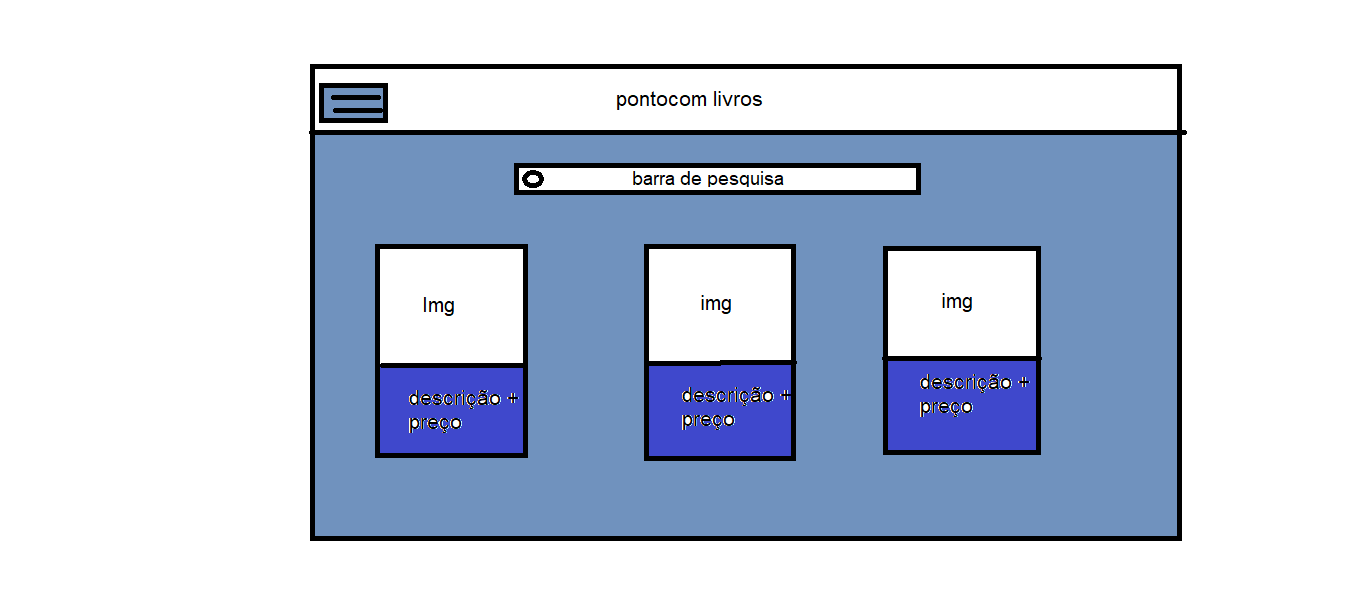
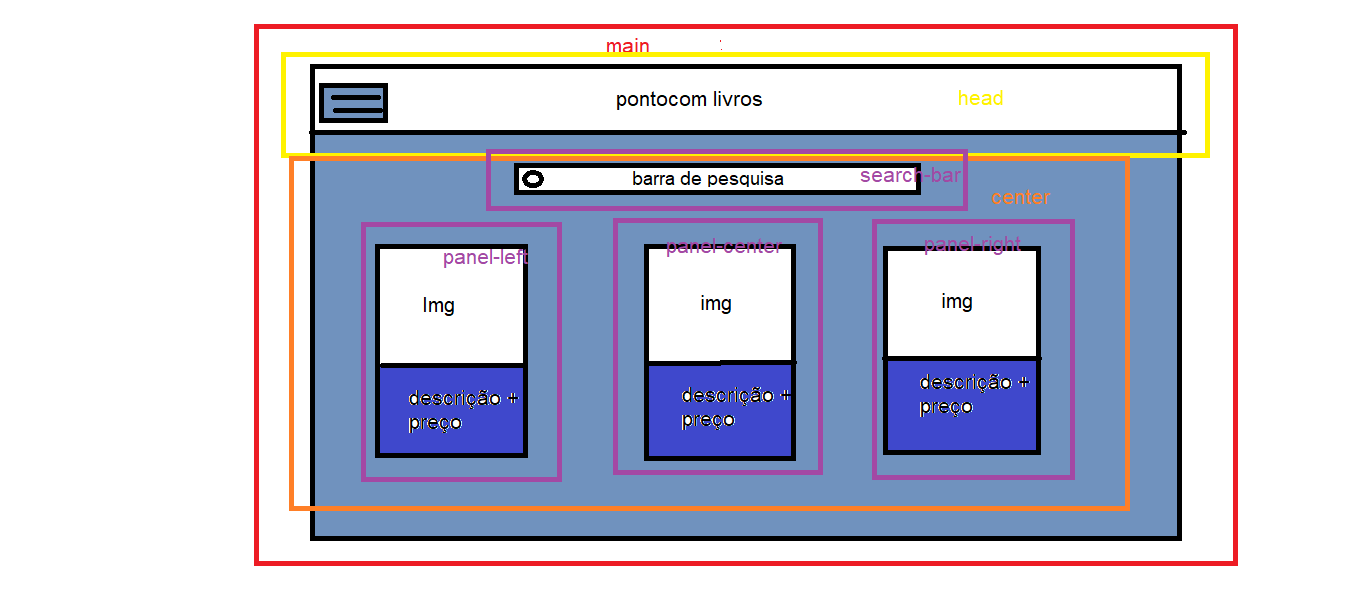
adding the html and css file off the page

Changed region(s): [[0.1853, 0.0312, 0.9265, 0.9375], [0.7103, 0.1562, 0.7412, 0.1875]]

diff --git a/pontocom_livros/templates/ecomerce/ecormer-page.html b/pontocom_livros/templates/ecomerce/ecormer-page.html
@@ -4,7 +4,7 @@
 <head>
     <meta charset="UTF-8">
     <meta name="viewport" content="width=device-width, initial-scale=1.0">
-    <link rel="stylesheet" href="style.css">
+    <link rel="stylesheet" href="main.css">
     <title>Document</title>
 </head>
 
@@ -14,12 +14,10 @@
         <div class="head">
             <h1>Pontocom_livros</h1>
         </div>
-
         <div class="search-bar">
             <label for="search-bar"></label>
             <input type="text" name="search-bar" placeholder="search-bar">
         </div>
-        
         <div class="center">
             <div class="panel-left">
                 <div class="panel-left-card">

diff --git a/pontocom_livros/templates/ecomerce/main.css b/pontocom_livros/templates/ecomerce/main.css
@@ -1,0 +1,41 @@
+* {
+    margin: 0;
+    padding: 0;
+    box-sizing: border-box;
+}
+
+.main{
+    width: 100vw;
+    height: 100vh;
+}
+.head{
+    width: 100%;
+    display: flex;
+    justify-content: center;
+    background-color: blue;
+}
+
+.search-bar{
+    display: flex;
+    justify-content: center;
+}
+
+.search-bar > input{
+    width: 40vw;
+    margin: 30px 30px;
+}
+
+.center{
+    display: flex;
+    justify-content: center;
+    align-items: center;
+}
+
+.text-field{
+    margin: 40px;
+
+}
+
+.btn{
+    transform: rotate(36);
+}

diff --git a/pontocom_livros/templates/ecomerce/style.css b/pontocom_livros/templates/ecomerce/style.css
@@ -1,0 +1,41 @@
+* {
+    margin: 0;
+    padding: 0;
+    box-sizing: border-box;
+}
+
+.main{
+    width: 100vw;
+    height: 100vh;
+}
+.head{
+    width: 100%;
+    display: flex;
+    justify-content: center;
+    background-color: blue;
+}
+
+.search-bar{
+    display: flex;
+    justify-content: center;
+}
+
+.search-bar > input{
+    width: 40vw;
+    margin: 30px 30px;
+}
+
+.center{
+    display: flex;
+    justify-content: center;
+    align-items: center;
+}
+
+.text-field{
+    margin: 40px;
+
+}
+
+.btn{
+    transform: rotate(36);
+}
